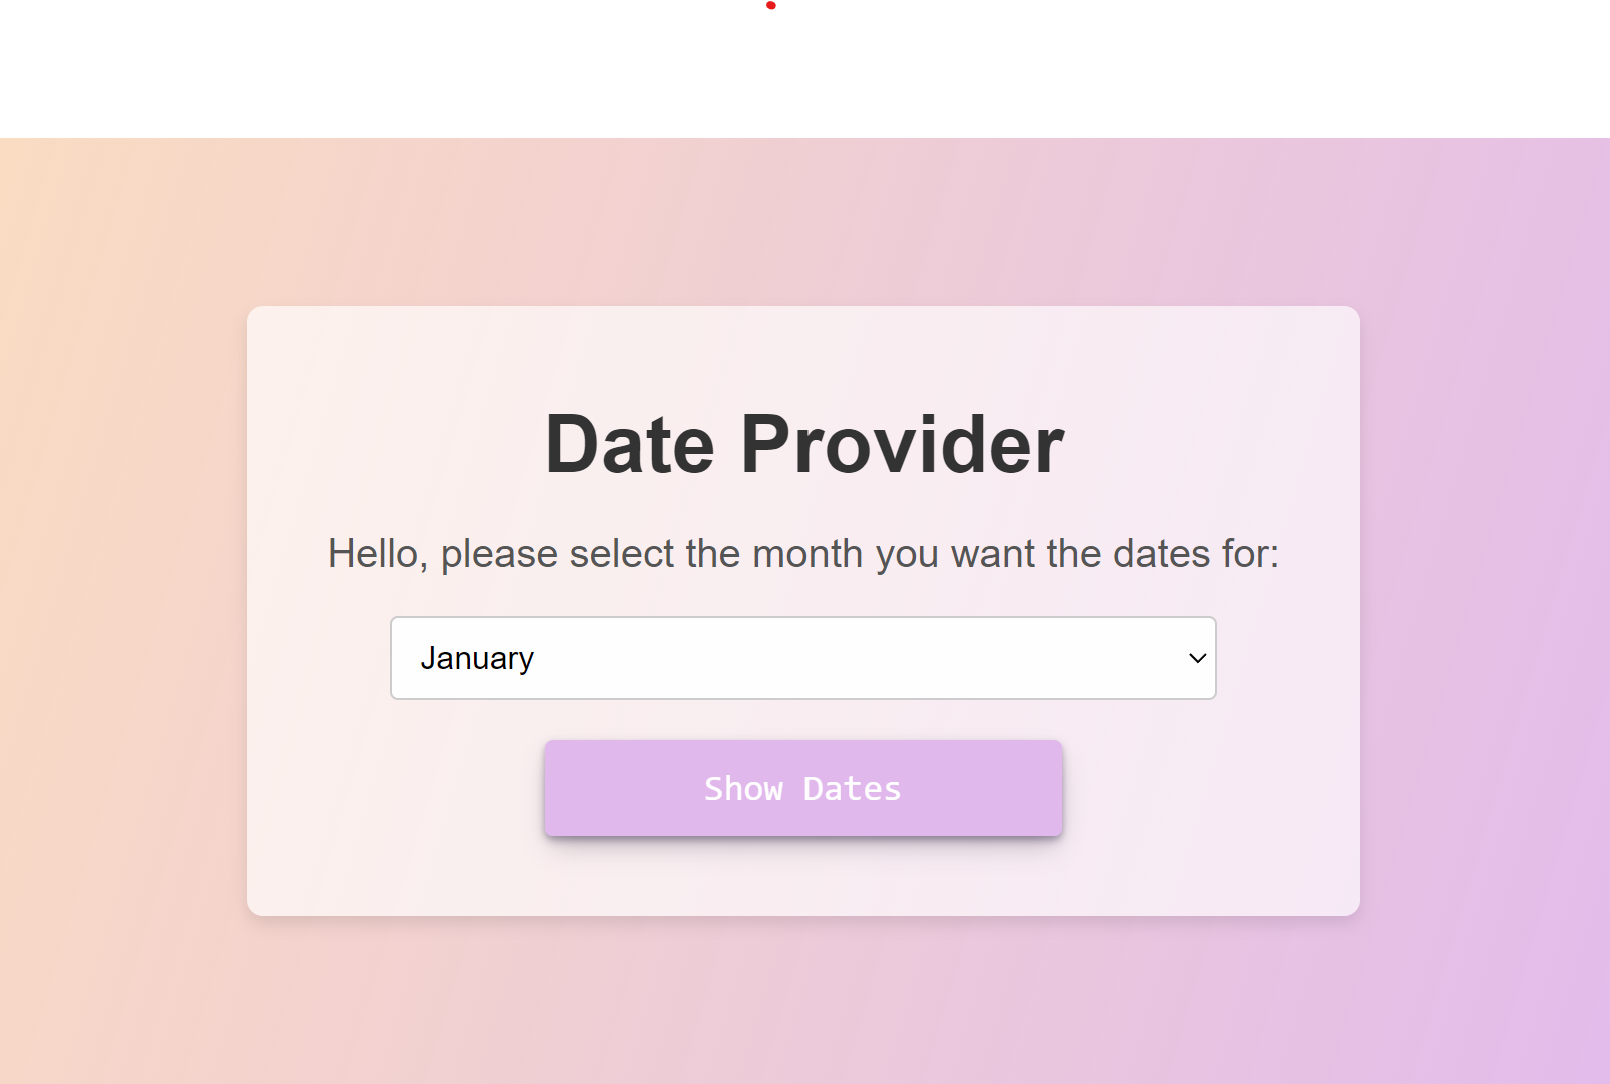
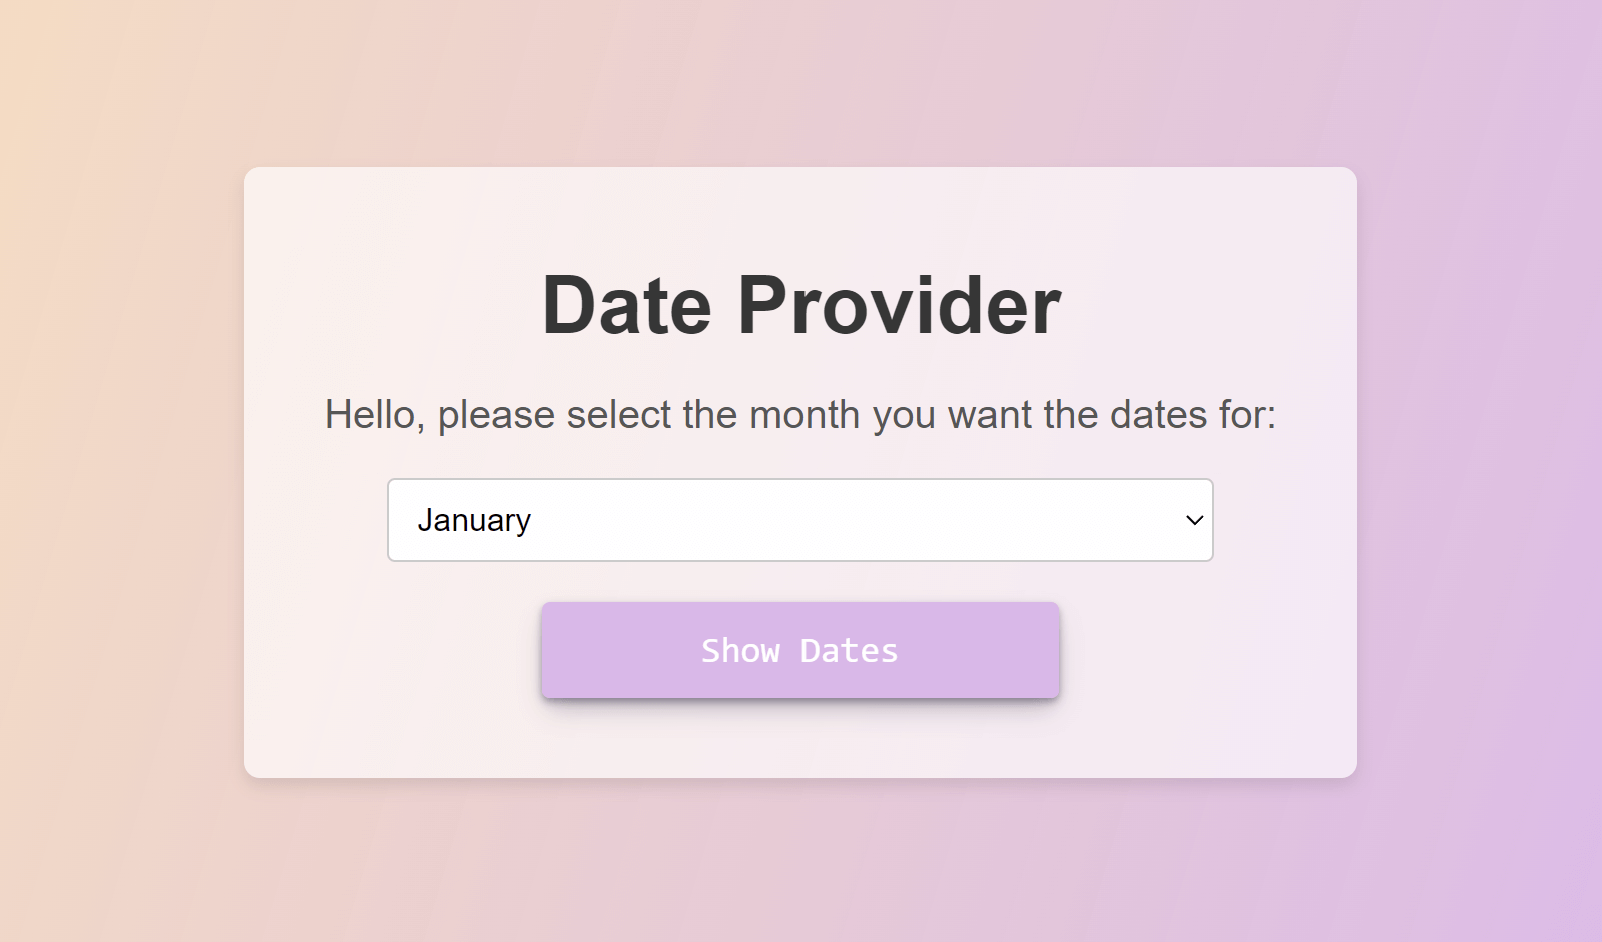
Update README with compressed screenshots

Changed region(s): [[0.0, 0.0, 1.0, 0.4618], [0.1561, 0.4926, 0.8427, 0.862], [0.7179, 0.5849, 0.7491, 0.6157]]

diff --git a/README.md b/README.md
@@ -11,9 +11,9 @@
 
 ## Screenshots
 
-![App Screenshot](./assets/screenshot1.png)
-![App Screenshot](./assets/screenshot2.png)
-![App Screenshot](./assets/screenshot3.png)
+![App Screenshot](./src/assets/screenshot1.png)
+![App Screenshot](./src/assets/screenshot2.png)
+![App Screenshot](./src/assets/screenshot3.png)
 
 ## Installation
 
